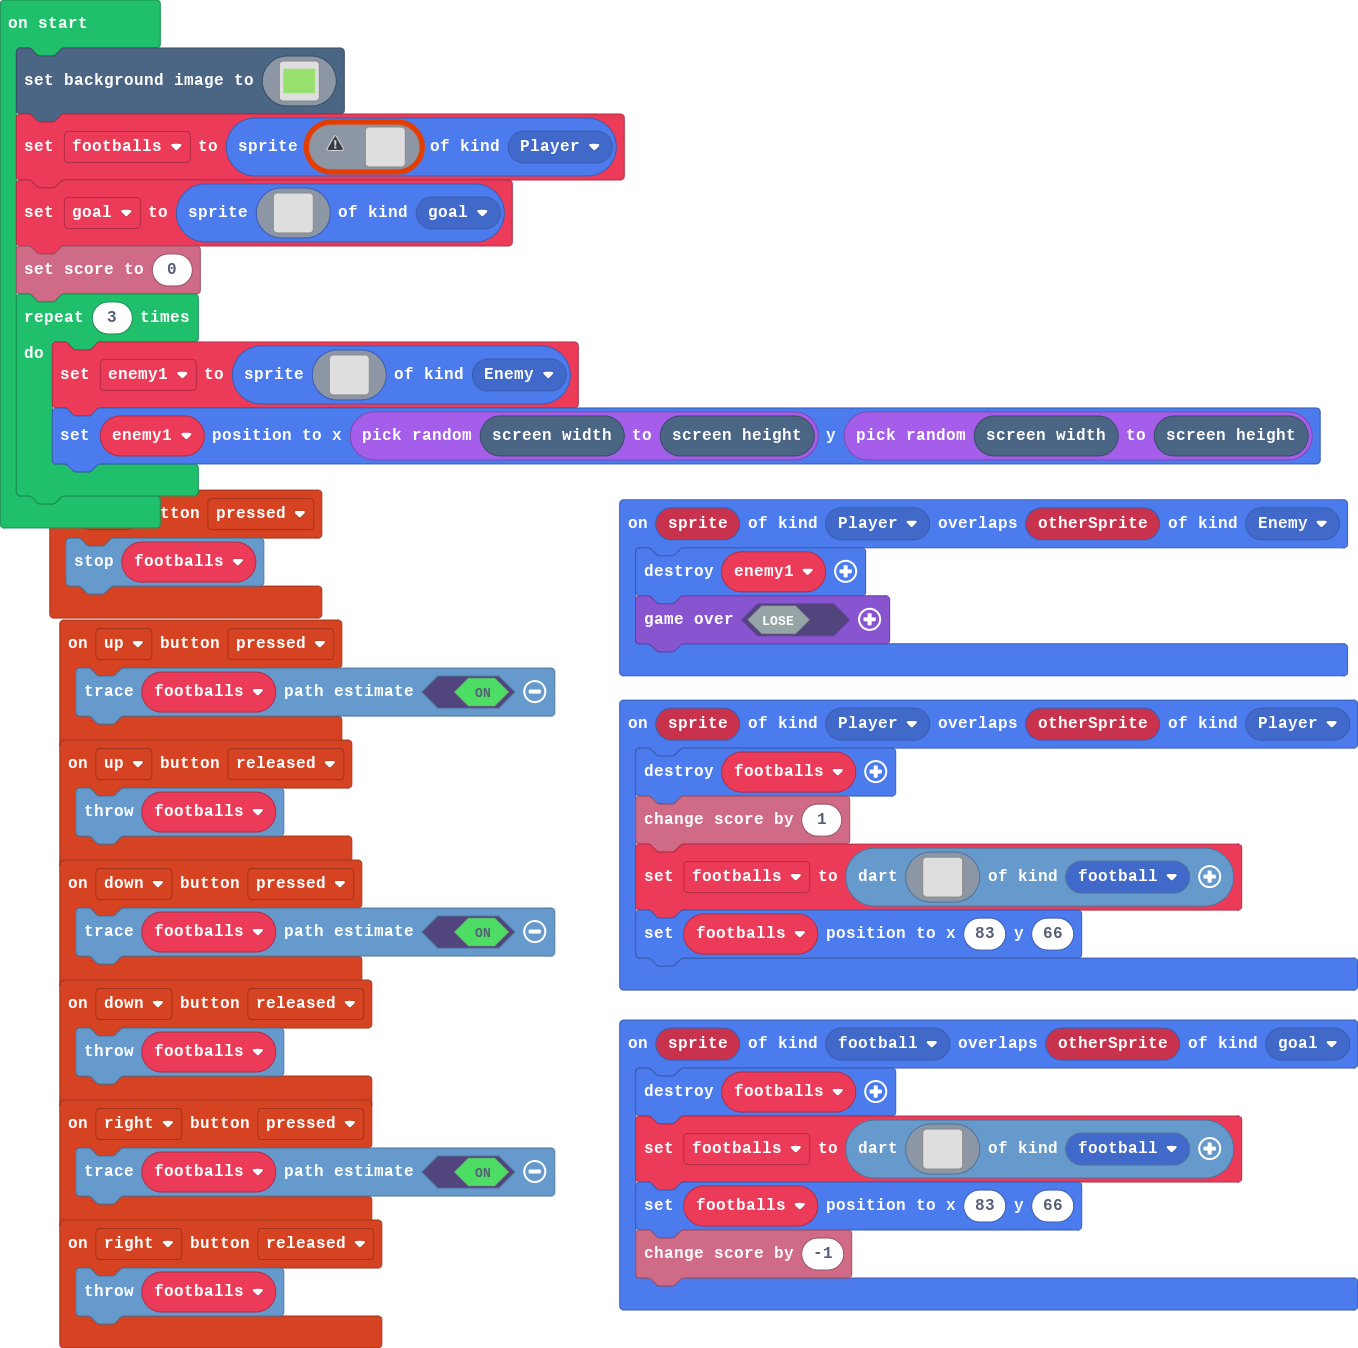
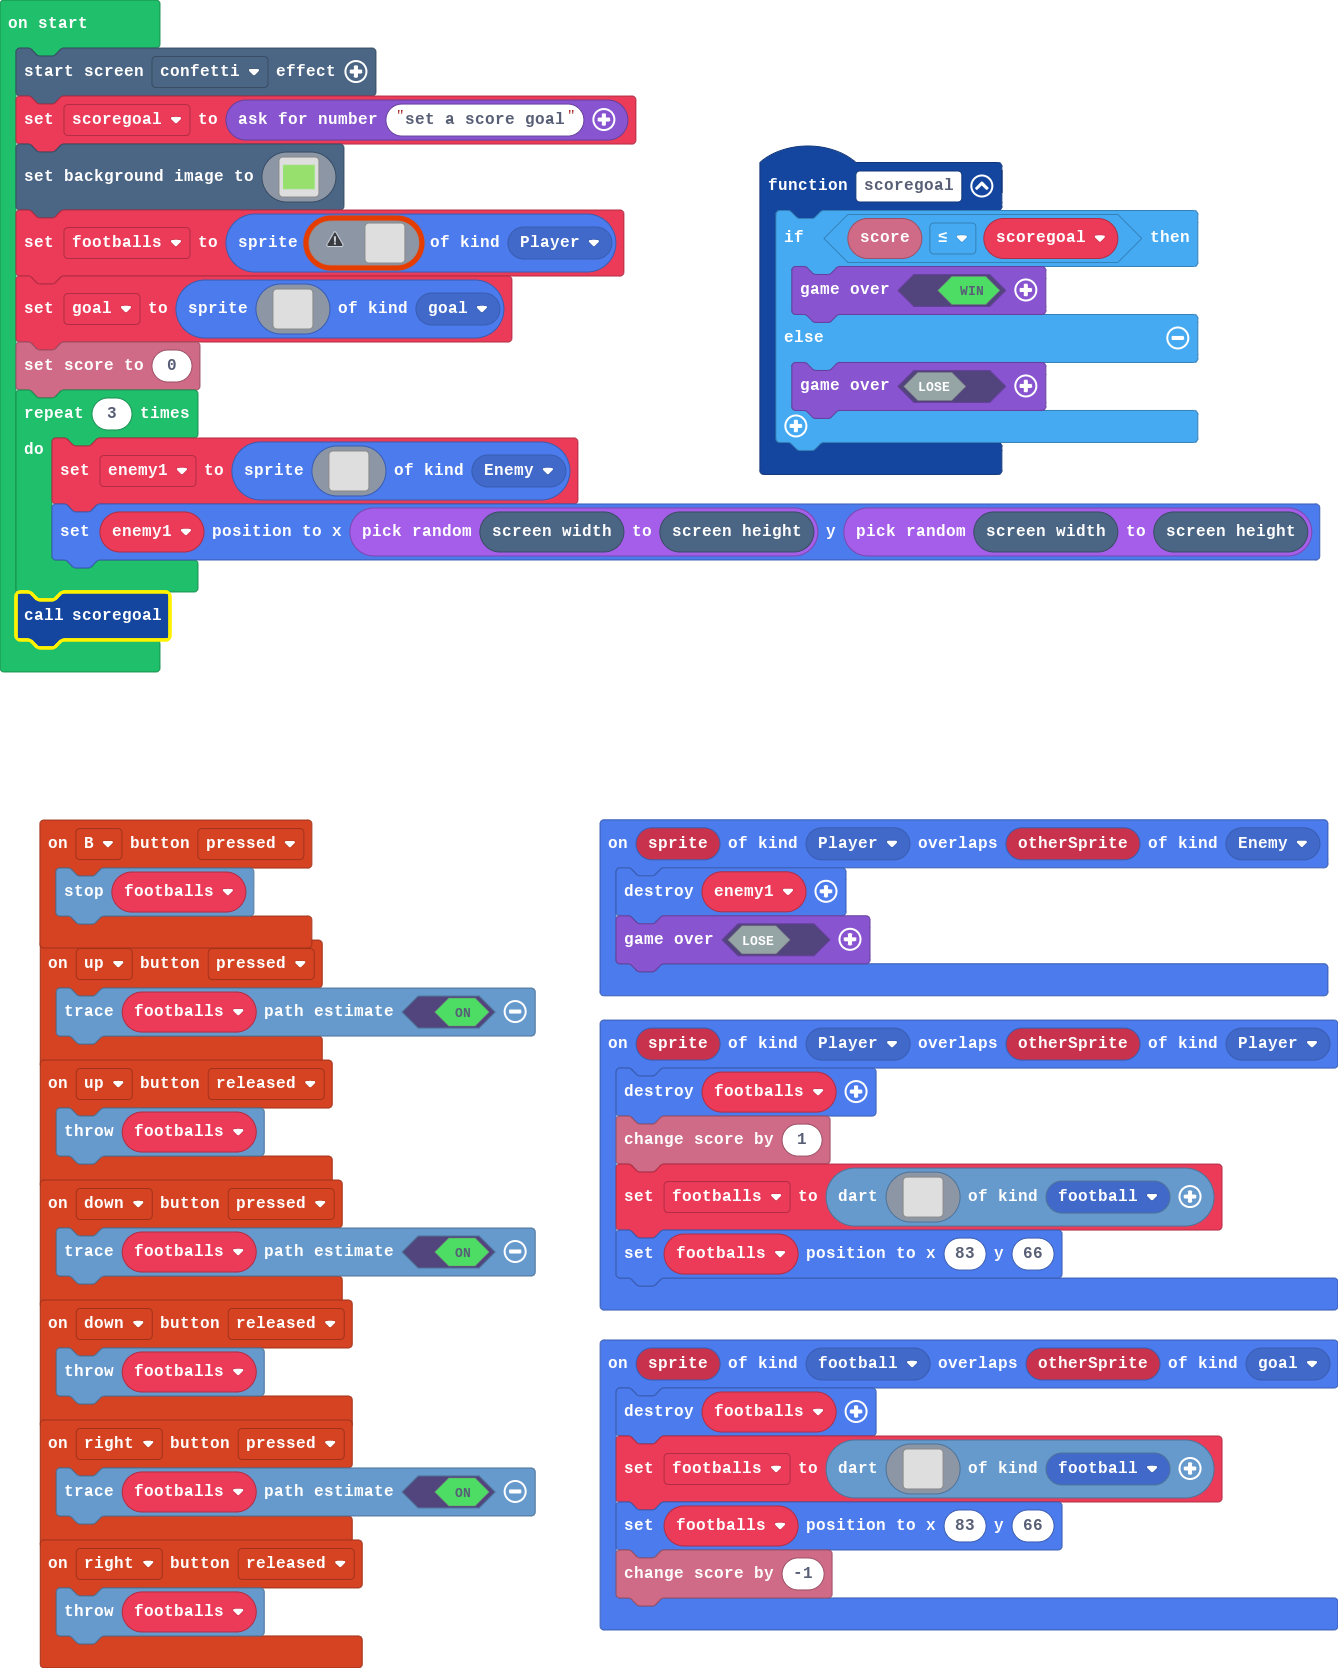
Update main.blocks, main.ts

diff --git a/main.ts b/main.ts
@@ -1,6 +1,7 @@
 namespace SpriteKind {
     export const goal = SpriteKind.create()
     export const football = SpriteKind.create()
+    export const score = SpriteKind.create()
 }
 controller.up.onEvent(ControllerButtonEvent.Pressed, function () {
     footballs.setTrace(true)
@@ -14,6 +15,13 @@ controller.down.onEvent(ControllerButtonEvent.Released, function () {
 controller.right.onEvent(ControllerButtonEvent.Released, function () {
     footballs.throwDart()
 })
+function scoregoal () {
+    if (info.score() <= scoregoal2) {
+        game.over(true)
+    } else {
+        game.over(false)
+    }
+}
 controller.right.onEvent(ControllerButtonEvent.Pressed, function () {
     footballs.setTrace(true)
 })
@@ -75,6 +83,9 @@ sprites.onOverlap(SpriteKind.Player, SpriteKind.Enemy, function (sprite, otherSp
 })
 let enemy1: Sprite = null
 let footballs: Dart = null
+let scoregoal2 = 0
+effects.confetti.startScreenEffect()
+scoregoal2 = game.askForNumber("set a score goal")
 scene.setBackgroundImage(img`
     7777777777777777777777777777777777777777777777777777777777777777777777777777777777777777777777777777777777777777777777777777777777777777777777777777777777777777
     7777777777777777777777777777777777777777777777777777777777777777777777777777777777777777777777777777777777777777777777777777777777777777777777777777777777777777
@@ -255,3 +266,4 @@ for (let index = 0; index < 3; index++) {
         `, SpriteKind.Enemy)
     enemy1.setPosition(randint(scene.screenWidth(), scene.screenHeight()), randint(scene.screenWidth(), scene.screenHeight()))
 }
+scoregoal()
